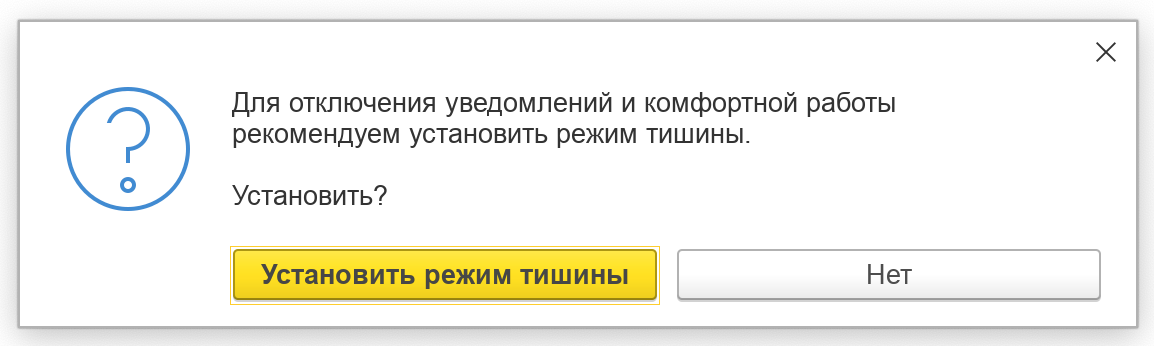
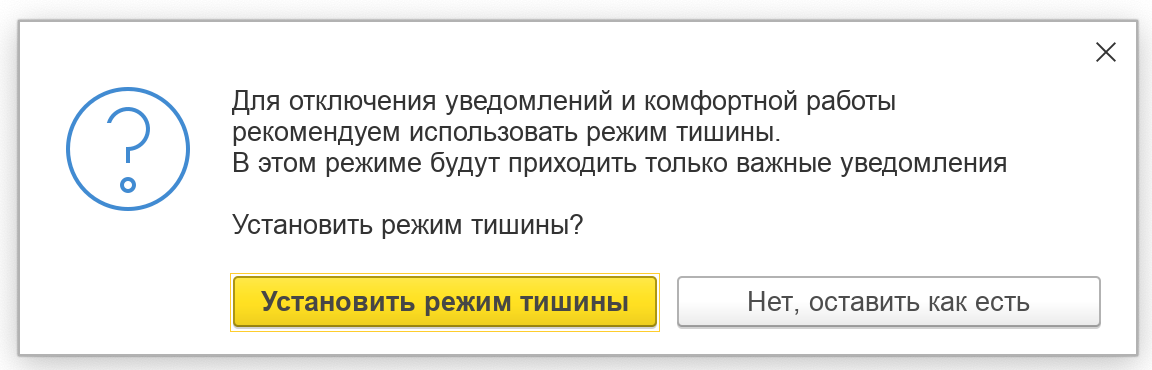
update dialog img and code

Changed region(s): [[0.0, 0.0578, 1.0, 0.9827], [0.0312, 0.2312, 0.875, 0.6069], [0.1875, 0.5202, 0.5312, 0.6358]]

diff --git a/README.md b/README.md
@@ -257,13 +257,15 @@
 3. Кнопка закрытия диалогового окна (крестик справа вверху) должене обрабатываться. Для этого одна из команд диалогового окна должна быть Отмена. Для этого стоит добавить свои кнопки диалогового окна.
 
     ```BSL
-    ТекстВопроса = "Для отключения уведомлений и комфортной работы рекомендуем установить режим тишины.
-    |
-    |Установить?";
+    ТекстВопроса = 
+    "Для отключения уведомлений и комфортной работы рекомендуем использовать режим тишины.   
+     |В этом режиме будут приходить только важные уведомления 
+     | 
+     |Установить режим тишины?";
 
     Кнопки = Новый СписокЗначений;
     Кнопки.Добавить(КодВозвратаДиалога.Да, "Установить режим тишины");
-    Кнопки.Добавить(КодВозвратаДиалога.Отмена, "Нет");
+    Кнопки.Добавить(КодВозвратаДиалога.Отмена, "Нет, оставить как есть);
 
     ОписаниеОповещения = Новый ОписаниеОповещения("УстановитьРежимТишиныЗавершение", ЭтотОбъект);
     ПоказатьВопрос(ОписаниеОповещения, ТекстВопроса, Кнопки);
